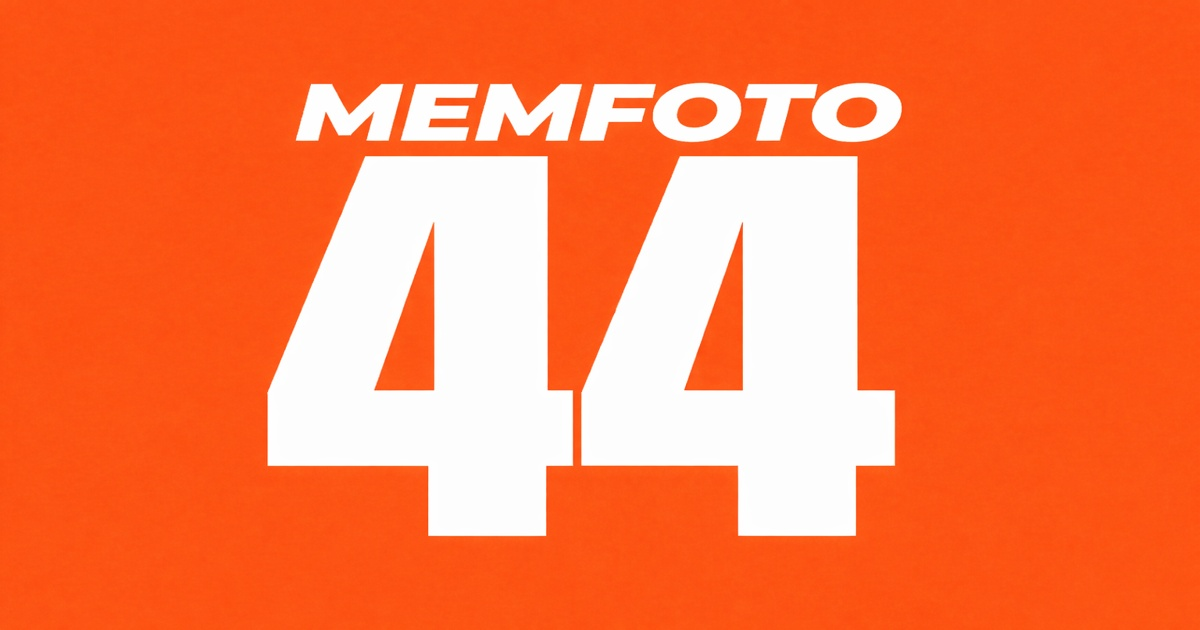
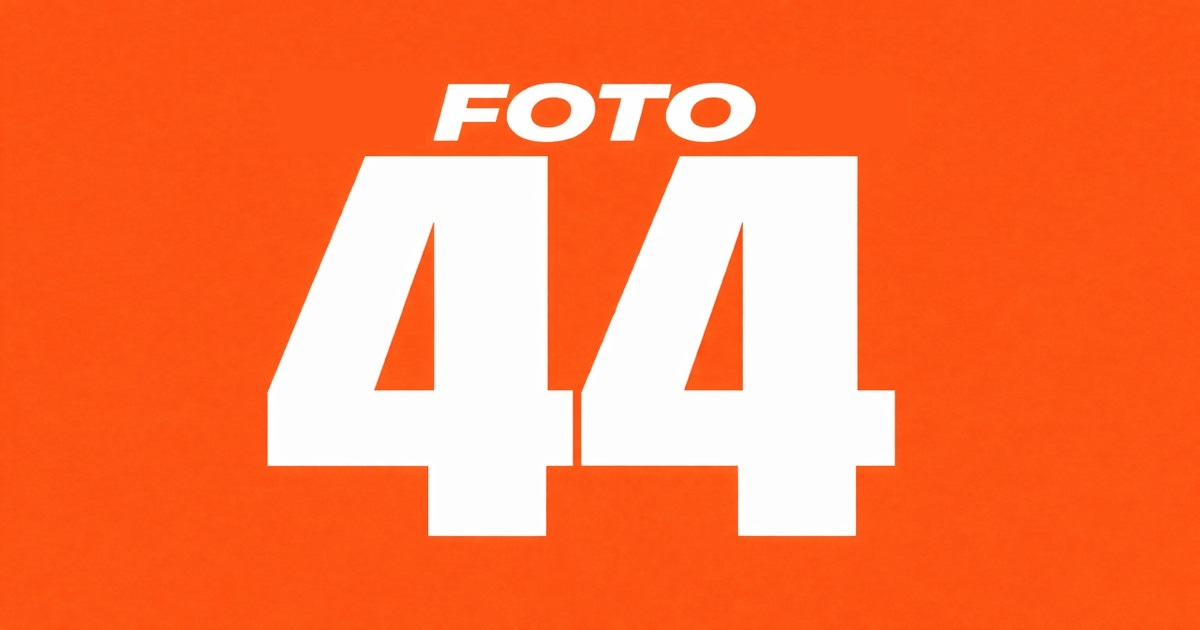
Add files via upload

Changed region(s): [[0.2467, 0.1206, 0.7708, 0.2413]]

diff --git a/index.html b/index.html
@@ -3,12 +3,12 @@
 <head>
     <meta charset="UTF-8">
     <meta name="viewport" content="width=device-width, initial-scale=1.0, maximum-scale=1.0, user-scalable=no, viewport-fit=cover">
-    <title>MEMFOTO44 - Leonidas Name</title>
+    <title>FOTO44 - Leonidas Name</title>
 
-    <meta property="og:title" content="MEMFOTO44 - Juego de Memoria fotografica">
-    <meta property="og:description" content="¿Qué tan buena es tu memoria fotografica? Encuentra la ubicación de la imagen">
-    <meta property="og:image" content="https://leonidasnamegomez.github.io/Memfoto44/miniatura.jpg">
-    <meta property="og:url" content="https://leonidasnamegomez.github.io/Memfoto44/">
+    <meta property="og:title" content="FOTO44 - Juego de Memoria fotográfica">
+    <meta property="og:description" content="¿Qué tan buena es tu memoria fotográfica? Encuentra la ubicación de la imagen">
+    <meta property="og:image" content="https://leonidasnamegomez.github.io/Foto44/miniatura.jpg">
+    <meta property="og:url" content="https://leonidasnamegomez.github.io/Foto44/">
     <meta property="og:type" content="website">
 
     <script>
@@ -69,7 +69,6 @@
             text-transform: uppercase;
         }
 
-        /* Ventana de Reglas */
         #modal-reglas {
             display: none; position: fixed; top: 50%; left: 50%; 
             transform: translate(-50%, -50%); background: white; 
@@ -91,7 +90,7 @@
             background: rgba(0,0,0,0.2); padding: 8px; border-radius: 12px;
         }
 
-        #tablero-memfoto {
+        #tablero-foto {
             display: grid; grid-template-columns: repeat(4, 1fr);
             gap: 10px; width: 92%; max-width: 400px; margin: 10px auto;
         }
@@ -115,10 +114,9 @@
         .celda.oculta::after { content: "?"; font-size: 2.2rem; color: var(--color-primario); font-weight: bold; }
         .celda.oculta > * { display: none; }
 
-        /* AJUSTE PARA MANTENER POSICIÓN FIJA */
         #objetivo-contenedor {
             width: 100%;
-            height: 160px; /* Tamaño fijo para que no empuje los botones */
+            height: 160px; 
             display: flex;
             flex-direction: column;
             align-items: center;
@@ -128,7 +126,7 @@
 
         #texto-pregunta {
             margin: 0 0 5px 0; color: white; font-size: 1rem; font-weight: bold;
-            visibility: hidden; /* Ocupa espacio pero no se ve hasta el final */
+            visibility: hidden; 
         }
 
         .item-objetivo {
@@ -137,14 +135,16 @@
             justify-content: center; overflow: hidden;
             box-shadow: 0 8px 15px rgba(0,0,0,0.2);
             box-sizing: border-box;
-            visibility: hidden; /* Ocupa espacio pero no se ve hasta el final */
+            visibility: hidden; 
         }
         .item-objetivo img { width: 100%; height: 100%; object-fit: cover; }
         .item-objetivo span { color: var(--color-primario); font-weight: 900; font-size: 1.2rem; text-align: center; }
 
+        /* Estilo actualizado para el indicador de fase con salto de línea */
         #indicador-fase {
-            background: rgba(0,0,0,0.2); color: white; padding: 4px 15px;
-            border-radius: 20px; font-weight: bold; margin-top: 5px; font-size: 0.8rem;
+            background: rgba(0,0,0,0.2); color: white; padding: 8px 20px;
+            border-radius: 15px; font-weight: bold; margin-top: 5px; font-size: 0.85rem;
+            text-align: center; line-height: 1.3;
         }
 
         .contenedor-inferior {
@@ -186,7 +186,7 @@
 
     <div class="overlay" id="overlay"></div>
     <div id="modal-reglas">
-        <h2>🧩 REGLAS DE MEMFOTO44</h2>
+        <h2>🧩 REGLAS DE FOTO44</h2>
         <ul>
             <li>Tienes <b>5 segundos</b> para memorizar la ubicación de todas las imágenes.</li>
             <li>Luego, las imágenes se ocultarán y aparecerá un <b>objetivo</b>.</li>
@@ -211,11 +211,11 @@
     </div>
 
     <div id="pantalla-carga" class="pantalla">
-        <p class="texto-carga-inferior">CARGANDO MEMFOTO44...</p>
+        <p class="texto-carga-inferior">CARGANDO FOTO44...</p>
     </div>
 
     <div id="pantalla-menu" class="pantalla" style="display: none;">
-        <div class="cabecera-titulo"><h1 class="texto-sombra">MEMFOTO44</h1></div>
+        <div class="cabecera-titulo"><h1 class="texto-sombra">FOTO44</h1></div>
         <div style="flex: 1;"></div>
         <div class="contenedor-inferior">
             <div style="color: white; margin-bottom: 15px; font-weight: bold; font-size: 1.1rem;">Récord: <span id="record-menu">0</span></div>
@@ -226,13 +226,15 @@
     </div>
 
     <div id="pantalla-juego" class="pantalla" style="display: none;">
-        <div class="cabecera-titulo"><h1 class="texto-sombra">MEMFOTO44</h1></div>
+        <div class="cabecera-titulo"><h1 class="texto-sombra">FOTO44</h1></div>
         <div class="stats-juego">
             <div>Racha: <span id="racha-actual">0</span></div>
             <div>Récord: <span id="record-juego">0</span></div>
         </div>
-        <div id="indicador-fase">MEMORIZA 5s</div>
-        <div id="tablero-memfoto"></div>
+        
+        <div id="indicador-fase">MEMORIZA<br>Tiempo restante: 5s</div>
+        
+        <div id="tablero-foto"></div>
 
         <div id="objetivo-contenedor">
             <p id="texto-pregunta">¿DÓNDE ESTABA ESTO?</p>
@@ -261,7 +263,7 @@
         function iniciarMusica() { if (!musicaIniciada) { document.getElementById('musicaFondo').play().catch(() => {}); musicaIniciada = true; } }
 
         window.onload = () => {
-            const record = localStorage.getItem('recordMemfoto44') || 0;
+            const record = localStorage.getItem('recordFoto44') || 0;
             document.getElementById('record-menu').innerText = record;
         };
 
@@ -285,7 +287,7 @@
         }
 
         function actualizarStats() {
-            const record = localStorage.getItem('recordMemfoto44') || 0;
+            const record = localStorage.getItem('recordFoto44') || 0;
             document.getElementById('racha-actual').innerText = racha;
             document.getElementById('record-juego').innerText = record;
         }
@@ -295,20 +297,20 @@
             document.getElementById('mensaje-victoria').style.display = 'none';
             document.getElementById('mensaje-error').style.display = 'none';
             
-            // Ocultamos el objetivo al iniciar la ronda pero mantenemos el espacio
             document.getElementById('item-objetivo').style.visibility = 'hidden';
             document.getElementById('texto-pregunta').style.visibility = 'hidden';
             
             let tiempoRestante = 5;
             const indicador = document.getElementById('indicador-fase');
-            indicador.innerText = `MEMORIZA ${tiempoRestante}s`;
+            // Formato inicial solicitado
+            indicador.innerHTML = `MEMORIZA<br>Tiempo restante: ${tiempoRestante}s`;
             juegoBloqueado = true;
 
             let mazo = imagenes.map(img => ({ tipo: 'img', valor: img }));
             mazo.push({ tipo: 'txt', valor: '8 DE MARZO' });
             mazo.sort(() => Math.random() - 0.5);
 
-            const tablero = document.getElementById('tablero-memfoto');
+            const tablero = document.getElementById('tablero-foto');
             tablero.innerHTML = '';
 
             mazo.forEach((item) => {
@@ -327,7 +329,8 @@
             intervaloCrono = setInterval(() => {
                 tiempoRestante--;
                 if (tiempoRestante > 0) {
-                    indicador.innerText = `MEMORIZA ${tiempoRestante}s`;
+                    // Actualización del tiempo restante
+                    indicador.innerHTML = `MEMORIZA<br>Tiempo restante: ${tiempoRestante}s`;
                 } else {
                     clearInterval(intervaloCrono);
                     finalizarMemorizacion(objetivo);
@@ -343,7 +346,6 @@
             if(objetivo.tipo === 'img') { objContainer.innerHTML = `<img src="${objetivo.valor}">`; } 
             else { objContainer.innerHTML = `<span>8 DE MARZO</span>`; }
             
-            // Hacemos visible el objetivo sin mover nada
             objContainer.style.visibility = 'visible';
             document.getElementById('texto-pregunta').style.visibility = 'visible';
             juegoBloqueado = false;
@@ -355,8 +357,8 @@
             celda.classList.remove('oculta');
             if (celda.dataset.valor === itemCorrecto) {
                 racha++;
-                const recordActual = localStorage.getItem('recordMemfoto44') || 0;
-                if (racha > recordActual) { localStorage.setItem('recordMemfoto44', racha); }
+                const recordActual = localStorage.getItem('recordFoto44') || 0;
+                if (racha > recordActual) { localStorage.setItem('recordFoto44', racha); }
                 actualizarStats();
                 setTimeout(() => { document.getElementById('mensaje-victoria').style.display = 'block'; }, 500);
             } else {
@@ -369,8 +371,8 @@
 
         function compartirJuego() {
             const url = window.location.href;
-            const shareTitle = 'MEMFOTO44 - Juego de Memoria fotografica';
-            const shareText = '¿Qué tan buena es tu memoria fotografica? ¡Encuentra la ubicación!';
+            const shareTitle = 'FOTO44 - Juego de Memoria fotográfica';
+            const shareText = '¿Qué tan buena es tu memoria fotográfica? ¡Encuentra la ubicación!';
             if (navigator.share) {
                 navigator.share({ title: shareTitle, text: shareText, url: url }).catch(() => {});
             } else {
